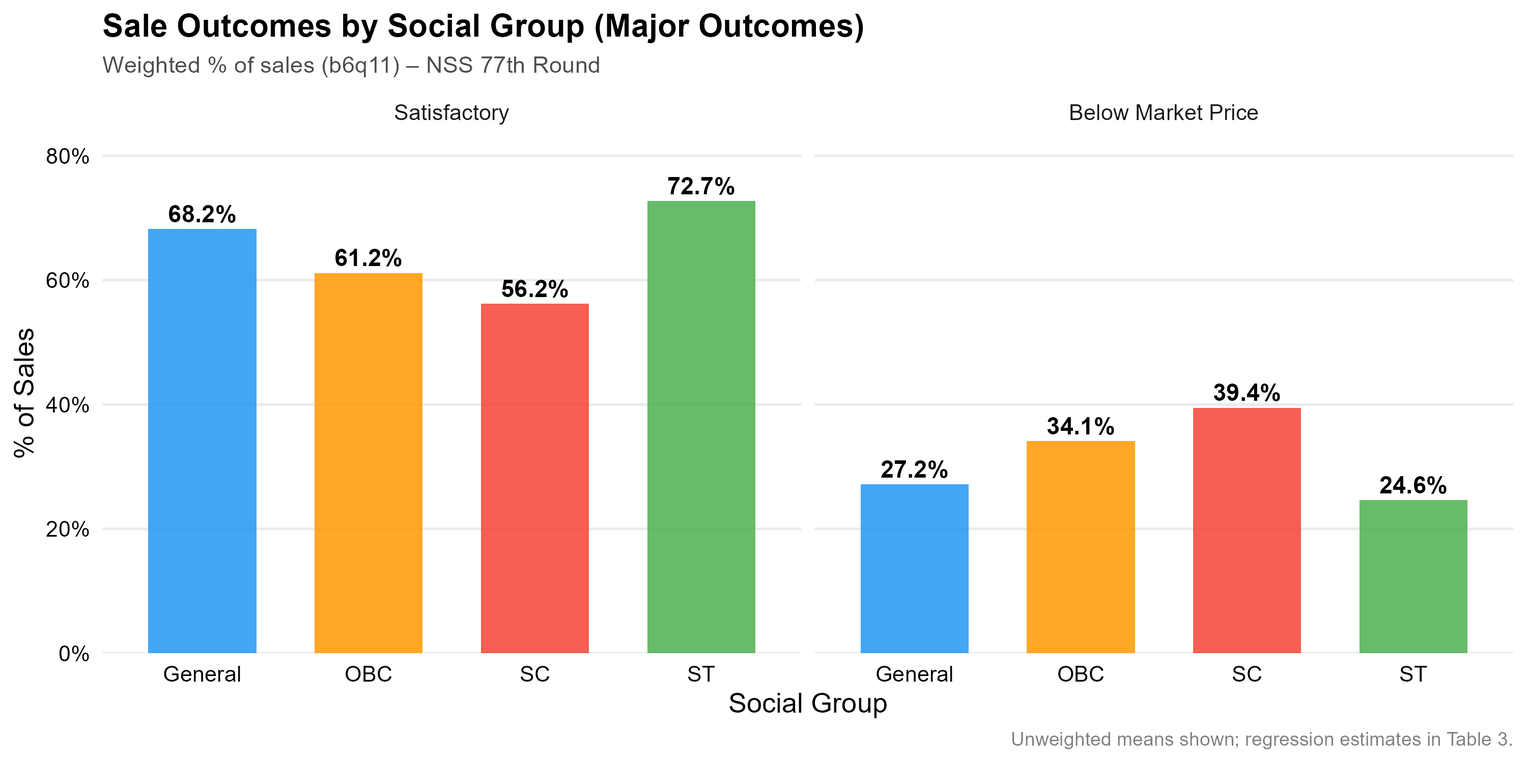
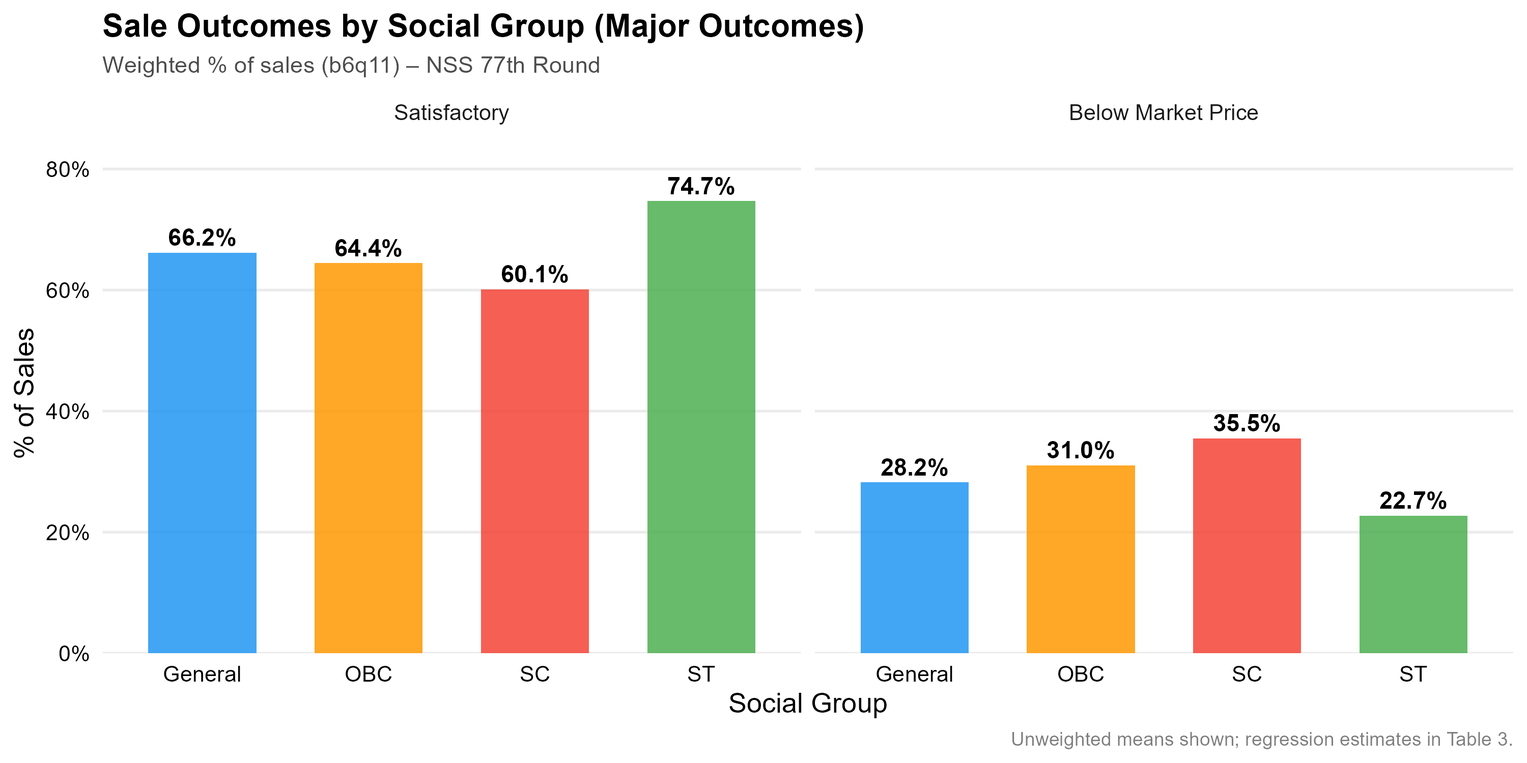
update with new results and graph

diff --git a/_posts/2025-12-05-geography-marginalization.md b/_posts/2025-12-05-geography-marginalization.md
@@ -1,174 +1,265 @@
 ---
 layout: post
-title: "The Hidden Geography of Inequality: Why India's Marginalized Groups Need Different Solutions"
-date: 2025-12-05
-author:
-categories:
-  - Employment
-  - Inequality
-comments: true
-math: true  
-description: "An analysis of IHDS-II (2011-2012) data to understand the effect of social identity on employment."
+title: "Market Access and Price Discrimination in Indian Agriculture"
+date: 2026-03-19
+categories: 
 ---
+
+<div class="text-center mt-4 mb-4">
+  <a href="https://github.com/ashwinnsr/agricultural-market-discrimination" 
+     class="btn btn-primary" 
+     target="_blank" 
+     rel="noopener noreferrer">
+    <i class="fab fa-github"></i> View Code on GitHub
+  </a>
+</div>
 
 ## Abstract
-
-Inequality in labor market outcomes persists despite India's rapid economic growth. This study, drawing on the India Human Development Survey-II (IHDS-II) dataset—focusing on 204,568 rural individuals—investigates how social identity, geography, and human capital interact to shape rural employment. Our analysis reveals a stark “Wealth-Employment Paradox”: groups with the lowest mean wealth, such as Adivasis, exhibit the highest employment rates (53.3%), whereas wealthier groups exhibit lower rates. This suggests that employment quantity alone masks severe deprivation driven by distress labor. We disaggregate the marginalization of three distinct social groups. Muslims are caught in a Geographic Trap, concentrated in economically stagnant districts, and face a massive educational deficit. Adivasis endure a Subsistence Mirage, featuring India’s highest employment rates but the worst job quality, with over 85% in casual labor. Dalits face a Distributed Barrier, encountering systemic wage and occupational disadvantages across all geographies. Furthermore, our findings underscore the role of social capital, indicating that organization membership significantly boosts employment prospects (+1.04 percentage points). We conclude that India’s labor market inequality cannot be solved with uniform policies; instead, it demands targeted interventions—place-based development for Muslims, wage enhancement for Adivasis, and anti-discrimination enforcement for Dalits.
-
----
-
-## Research Problem and Research Question
-
-Despite decades of affirmative action and poverty alleviation programs, India’s marginalized communities—Dalits (Scheduled Castes), Adivasis (Scheduled Tribes), and Muslims—continue to face significant disparities in socio-economic outcomes. Economic growth has not translated into universal labor market equity. A significant body of scholarly work has established the continuing relevance of social institutions like gender, caste, religion, and ethnicity in determining economic trajectories.
-
-However, existing frameworks often treat disadvantaged groups as a monolithic bloc, assuming that marginalization operates through similar mechanisms for everyone. When analyzing employment statistics, a deceptive hierarchy emerges: Adivasis have the highest rural employment rate at 53.3%, followed by OBCs (46.4%), Dalits (45.5%), and Forward Castes (43.3%), while Muslims languish at the bottom with just 35.5%. If employment is viewed simply as a measure of economic success, these figures are seemingly contradictory. They highlight a structural anomaly, which we term the "Wealth-Employment Paradox." In rural labor markets, there is a strong negative correlation (-0.671) between a social group’s wealth and its employment rate. The poorest communities work the most, not out of opportunity, but out of necessity—engaging in distress labor to fulfill basic subsistence needs. 
-
-This paradox indicates a critical research gap: employment quantity cannot be conflated with employment quality or economic wellbeing. Furthermore, the role of structural and geographic constraints on specific marginalized groups remains inadequately quantified. 
-
-This study poses the following specific research questions: 
-1. How do human capital (education), social capital (organizational membership), and geography interact to shape employment probabilities across different social groups in rural India?
-2. What are the specific, differentiated mechanisms of labor market exclusion faced by Muslims, Dalits, and Adivasis? 
-3. How does the quality of employment (measured by job security and wages) differ among groups with ostensibly "high" employment rates?
-
-By answering these questions, this research moves beyond binary notions of employment versus unemployment, exploring the unique barriers that keep India's most vulnerable populations trapped in cycles of poverty.
+In the discourse on agrarian inequality in India, attention is typically directed toward land ownership, credit access, and debt cycles. However, the final stage of the agricultural cycle—the market exchange itself—remains deeply stratified by social identity. This article uses the National Sample Survey (NSS) 77th Round (2019–20) *Situation Assessment of Agricultural Households* to analyse over **74,565 crop sales records** spanning 36 states, 52,634 households, and two agricultural seasons. Using high-dimensional fixed-effects models, quantile regressions, and a manual Blinder-Oaxaca decomposition, we examine how caste and tribal identity shape the terms of agricultural trade. Our core findings are threefold: (1) Scheduled Caste (SC) farmers face a consistent **1.9% price penalty** relative to General Caste farmers within the same district, crop, and season—a gap driven primarily by differential access to formal markets rather than overt price-setting discrimination; (2) SC farmers are **2.6 percentage points less likely** to access APMC Mandis, with their formal market participation rate (14.7%) lagging nearly 6 points behind General Caste farmers (20.6%); (3) Scheduled Tribe (ST) farmers face a **4.6% price penalty** at the state level, driven in part by the near-complete absence of formal market infrastructure in their geographies. Our Blinder-Oaxaca decomposition reveals that 89% of the SC price gap is attributable to observable endowment differences (smaller landholdings, lower-value crop mix), while an 11% residual remains unexplained—consistent with market-level discrimination. These findings suggest that policy interventions focused solely on building more physical market infrastructure will remain insufficient without addressing the deeper socio-economic barriers that exclude marginalized groups from capturing the full value of their harvest.
 
 ---
 
-## Methodology
+## 1. Research Problem
+When a farmer brings their harvest to market, economic theory tells us the price should be determined by supply, demand, crop quality, and volume. But rural Indian agricultural markets do not operate in a social vacuum. They are embedded within hierarchies of caste, land, and credit that have persisted for centuries.
 
-To answer these research questions, this study leverages comprehensive data from the India Human Development Survey-II (IHDS-II, 2011-2012). The analysis purposely centers on rural India to examine agrarian and rural labor market dynamics, isolating a robust analytic sample of 204,568 working-age individuals across 371 districts and 33 states.
 
-The analytical framework employs a mixed-methods quantitative approach integrating geographic correlation analysis, marginal effects modeling, and wage regressions. 
+The central puzzle this research addresses is the gap between *market participation* and *market equality*. Marginalized farmers—Dalits (Scheduled Castes) and Adivasis (Scheduled Tribes)—are not absent from the market. They sell crops, engage with traders, and in some regions interact with government procurement systems. Yet the prices they receive, the channels through which they sell, and their subjective experience of the sale transaction differ systematically from those of General Caste farmers.
 
-First, we utilize geographic correlation analysis to map the spatial distribution of social groups against district-level employment rates. This spatial dimension allows us to distinguish whether a group's employment disadvantage is highly localized (a function of where they live) or broadly distributed (a function of their identity across geographies).
-
-Second, we estimate multiple logistic regression models to predict employment probability at the individual level, rigorously controlling for education, wealth, age, gender, social group, and state fixed-effects. Derived from these models, we calculate Average Marginal Effects (AME) to precisely quantify the likelihood impact of human capital (years of education) and social capital (organization membership) on job prospects. Robustness was extensively verified through diagnostic variants, including baseline checks with district fixed effects and clustered standard errors adjusted at the Primary Sampling Unit (PSU) level.
-
-Third, we expand the conventional definition of labor market success by evaluating employment quality. For the subsample of employed individuals, we stratify outcomes encompassing contract types (casual, temporary, permanent), access to formal social security benefits, and annual earnings. We subsequently run generalized wage regressions, adjusting for education, age, and location, to isolate the specific wage penalties imposed strictly on marginalized identities compared to Forward castes.
+This project asks a precise empirical question: even after controlling for the crop being sold, the district it is sold in, the quantity carried to market, household wealth, and land size—does social group identity still predict the price a farmer receives? If so, by how much, and through which mechanisms does this penalty operate?
 
 ---
 
-## Results
+## 2. Research Questions
 
-The analysis reveals interconnected dimensions of labor market inequality, demonstrating conclusively that marginalization operates through entirely different structural mechanisms for Muslims, Adivasis, and Dalits.
+1. **H1 (Price Discrimination):** Do SC and ST farmers receive lower prices than comparably situated General Caste farmers, after controlling for crop type, district, season, quantity, landholding, and wealth? Does any penalty vary by land size class or position in the price distribution?
+2. **H2 (Agency Access):** Are marginalized farmers systematically excluded from specific market channels—particularly formal channels like APMC Mandis and government procurement—and if so, does this exclusion help explain the price gap?
 
-### The Wealth-Employment Paradox and Human Capital
+---
 
-Traditional human capital models struggle to explain rural India's dynamics. We locate a strong negative correlation (-0.671) between wealth and employment. Marginally, each unit increase in the wealth index is associated with a 1.37 percentage point (pp) *decrease* in employment probability (p < 0.001). Conversely, human and social capital offer reliable pathways to labor market participation. Each additional year of education increases employment probability by 0.14 pp. Notably, organizational membership—a measurable proxy for social capital—yields a stunning 1.04 pp increase in employment probability. Yet, only 8.9% of the rural population currently participates in such groups, marking a massive untapped potential for community-led progress. The models additionally underscore profound constraints on women, illustrating a monumental female employment penalty of 26.4 pp.
+## 3. Data and Methodology
+
+### 3.1 Data
+This analysis uses the **NSS 77th Round (2019–20)**, a nationally representative household survey of agricultural households conducted across two seasonal visits (Kharif and Rabi). After merging crop sales records (Block 6) with household characteristics, land data, loan records, MSP awareness data, and input expenditure, and after applying symmetric 1%–99% outlier trimming on unit prices, the final analytic dataset contains **74,565 crop-sale observations** from **52,634 unique households** across **36 states and 142 crops**.
+
+| Category | Count |
+|---|---|
+| Total crop-sale observations | 74,565 |
+| Unique households | 52,634 |
+| States covered | 36 |
+| Distinct crops | 142 |
+| General Caste observations | 20,722 |
+| OBC observations | 30,335 |
+| SC observations | 8,343 |
+| ST observations | 15,165 |
+
+### 3.2 Methodology
+
+*   **Fixed-Effects OLS:** The core identification strategy uses crop fixed effects and district fixed effects to ensure that SC farmers are compared only to General Caste farmers selling the *same crop* in the *same district* in the *same season*. We additionally control for log MPCE and log total land area. Standard errors are clustered at the primary sampling unit (FSU) level.
+
+*   **Quantile Regressions (Frisch-Newton method):** Quantile regressions at the 10th, 50th, and 90th percentiles reveal whether the price penalty concentrates among distress sales, typical transactions, or premium sales.
+
+*   **Linear Probability Models (LPM):** We model the probability of selling to each channel (APMC Mandi, Government procurement, Local Trader, Cooperative, FPO) as a function of caste category, with crop and district fixed effects.
+
+*   **Blinder-Oaxaca Decomposition:** Using separate price regressions for each caste-pair via `feols`, we compute counterfactual predicted values to decompose the raw price gap into an "explained" component (observable endowment differences) and an "unexplained" residual.
+
+*   **Mechanisms Testing:** We examine three mechanisms: MSP awareness differentials, informal lender debt, and input cost differentials.
+
+*(All analysis was conducted in R using the `fixest`, `quantreg`, and `sf` packages.)*
+
+---
+
+## 4. Results
+
+### 4.1 Raw Price Gaps: The Starting Point
+
+The first and most visible finding is a systematic divergence in average prices received across social groups. SC farmers receive an average of **Rs. 26.5/kg**, compared to **Rs. 30.8/kg** for General Caste farmers—a raw gap of Rs. 4.3/kg (roughly 14%).
 
 <figure class="text-center">
-  <img src="\assets\img\IIHDSemploy\wealth_employment_paradox.png"
-       alt="Wealth-Employment Paradox" 
+  <img src="\assets\img\agriculture-discrimination\p1_price_by_caste.png"
+       alt="Bar chart showing average crop price received by social group, with SC receiving the lowest at Rs.25.1/kg and General caste the highest at Rs.30.2/kg" 
        class="img-fluid" 
        style="max-width: 85%; border-radius: 8px; box-shadow: 0 4px 8px rgba(0,0,0,0.1);">
   <figcaption class="mt-2 text-muted">
-    <strong>Figure 1:</strong> A scatter diagram illustrating that groups with higher mean wealth (e.g., Forward castes) have lower rural employment rates, while the poorest groups (e.g., Adivasis) demonstrate the highest—highlighting the wealth-employment paradox.
+     <strong>Figure 1:</strong> Average crop price received by social group (weighted means with 95% confidence intervals). N = 74,565 crop-sale records, NSS 77th Round.
   </figcaption>
 </figure>
 
-### The Muslim Geographic Trap and Educational Deficit
+However, this raw gap is importantly a *composition* effect as much as a discrimination effect. SC households grow more cereals and pulses (lower-value crops) and hold smaller landholdings on average (4.78 acres vs. 7.6 acres for General Caste). A t-test confirms the SC gap (−Rs. 4.30/kg, t = −5.46, p < 0.001) is highly significant. Interestingly, the ST group shows a smaller raw gap (−Rs. 1.19/kg, t = −1.92, p = 0.054)—explained by their concentration in certain higher-value niches despite overall structural disadvantage.
 
-Muslims face a multidimensional crisis, ranking lowest across critical human capital indicators. They hold the lowest employment rate (anti-intuitively just 35.5%) and suffer from an alarming educational deficit, averaging 4.3 years of schooling compared to 7.7 years for Brahmins (a 3.4-year gap). Even after comprehensively controlling for wealth and education differences, Muslims face a robust labor penalty, recording a -1.07 pp Average Marginal Effect in employment probability relative to Brahmins.
+---
 
-Critically, this disadvantage holds a massive geographic weight. Our spatial metrics showcase a highly significant negative correlation (-0.305, p < 0.001) between a district’s proportional Muslim population share and its aggregate employment rate. For every 10% increase in the Muslim populace, the local district employment rate drops by 1.69 percentage points. Muslims are concentrated systematically in severely economically stagnant districts where labor opportunities have effectively evaporated. Interestingly, district fixed-effects tests effectively neutralize within-district employment disparities, confirming that Muslim marginalization is rooted in locations where jobs are scarce for *everyone*. Despite holding marginally better wealth than SC/STs, Muslims who do find employment face precarity; 78.1% sit in casual labor networks resulting in an adjusted 19.9% wage penalty compared to Forward castes.
+### 4.2 The Agency Squeeze: Who Sells Where?
+
+Before turning to prices, we examine *where* farmers sell. The structure of market channel access differs substantially across social groups.
 
 <figure class="text-center">
-  <img src="\assets\img\IIHDSemploy\muslim_employment_correlation.png"
-       alt="Muslim Employment Correlation" 
+  <img src="\assets\img\agriculture-discrimination\p2_channel_by_caste.png"
+       alt="Stacked bar chart showing market channel distribution by social group, with SC and ST more reliant on local traders and less likely to use APMC Mandis" 
        class="img-fluid" 
        style="max-width: 85%; border-radius: 8px; box-shadow: 0 4px 8px rgba(0,0,0,0.1);">
   <figcaption class="mt-2 text-muted">
-    <strong>Figure 2:</strong> A scatterplot mapping a significant negative correlation (-0.305) between a district's Muslim population share and absolute district employment rates, confirming geographical entrapment.
+     <strong>Figure 2:</strong> Market channel distribution by social group (weighted % of crop sales). Blue shades = formal/regulated channels; Red shades = informal/trader channels.
   </figcaption>
 </figure>
 
-### The Adivasi Subsistence Mirage
+SC (79.5%) and ST (81.6%) farmers are substantially more reliant on Local Traders than General (74.3%) or OBC (74.0%) farmers. Access to formal channels is markedly lower for marginalized groups: only **14.7% of SC** and **12.6% of ST** sales flow through formal channels, versus **20.6% for General Caste**.
 
-The Adivasi employment portrait behaves essentially inverse to the Muslim experience. Districts with heavy Adivasi concentrations project vastly *higher* aggregate employment rates (correlation: +0.378, p < 0.001). Every 10% increase in Adivasi population pushes district employment upwards by 1.79 pp. 
+The Linear Probability Models (controlling for crop type and district) confirm this is not merely a composition artifact. **SC farmers are 2.57 percentage points less likely to sell at an APMC Mandi** (p < 0.01)—one of the only statistically significant and robust channel results in the data. Conditional on selling through a given channel, SC farmers face a further **2.8% penalty within Local Trader sales** (p < 0.05) and a **4.9% penalty within Government procurement sales**—indicating that caste-based disadvantage operates *inside* market channels, not only through channel selection.
 
-While a baseline employment metric of 53.3% sounds superficially laudable, evaluating job quality quickly uncovers a "Subsistence Mirage." A terrifying 85.5% of functioning Adivasi workers exist exclusively in casual, non-contractual daily labor. Consequently, they experience the lowest aggregate annual earnings of any demographic (mean: ₹35,883)—a devastating 60.4% baseline reduction compared to Forward castes (₹90,577). Incorporating structural regressions against education, age, and location, Adivasis withstand the largest wage discrimination penalty evaluated (-54.6%). Correspondingly, Adivasis record a 9.1% participation metric inside the MGNREGA workfare setup—the maximum of any social class. The high superficial employment stems completely from desperation-fueled subsistence labor instead of positive socioeconomic mobility.
+> **Geographic Context:** Private Trader dominance is highest in Eastern and North-Eastern India—precisely where ST agricultural households concentrate—reflecting both the absence of regulated markets and the structural isolation of tribal farming communities.
 
 <figure class="text-center">
-  <img src="\assets\img\IIHDSemploy\earnings_distribution.png"
-       alt="Earnings Distribution" 
+  <img src="\assets\img\agriculture-discrimination\map_trader_share.png"
+       alt="State-wise choropleth map of India showing the share of crop sales to private informal traders, with the darkest shades (90%+) concentrated in Jharkhand, West Bengal, and the North-East" 
        class="img-fluid" 
        style="max-width: 85%; border-radius: 8px; box-shadow: 0 4px 8px rgba(0,0,0,0.1);">
   <figcaption class="mt-2 text-muted">
-    <strong>Figure 3:</strong> Boxplots charting annual earnings on a Log Scale. The pronounced rightward spread in Forward castes sharply visualizes the Adivasi "Subsistence Mirage," capturing groups generating minimal wealth despite working constantly.
+     <strong>Figure 3:</strong> Private Trader Share by State (% of crop sales). Jharkhand (96.2%), Mizoram (90%), and West Bengal (90.2%) show the highest trader dependence—all states with large ST populations and minimal formal market infrastructure.
   </figcaption>
 </figure>
 
-### The Dalit Distributed Barrier
+---
 
-Contrary to both preceding groups, Dalits depict functionally zero spatial employment correlation (+0.081 n.s.). Boasting a median employment band around 45.5%, Dalit structural disadvantages manifest homogenously across the national geography. Driven tightly by historic occupational caste segregation and localized discrimination architectures, Dalits face entrenched boundaries regardless of state borders. Quantifying quality metrics reflects exactly this—80.1% of active Dalits are suppressed into casual labor frameworks. Annual earnings drag significantly backward (₹43,294), and when aggressively normalizing for education and demographic coordinates, the systemic caste dynamic imposes an adjusted structural wage penalty spanning -32.2% behind Forward equivalence.
+### 4.3 The Price Squeeze: Regression Results (H1)
+
+After controlling for crop type, district, quantity, wealth, and land size, a systematic price penalty for marginalized groups persists across model specifications.
+
+| Model | SC Penalty | ST Penalty | OBC |
+|---|---|---|---|
+| M1: Crop FE only | −2.4% | −2.0% | +1.2% |
+| M2: + Wealth & Land | −1.7% | −3.8% | +1.5% |
+| M3: + District FE | −1.9% | −3.4% | +1.2% |
+| M4: + State FE | −0.7% | **−4.6%\*\*** | +0.3% |
+| M5: District FE, no qty | −1.3% | −1.3% | +1.6% |
+
+*Standard errors clustered at FSU level. \*p<0.05, \*\*p<0.01. Coefficients converted from log-points.*
+
+The **SC penalty of −1.9%** (M3) is consistent across specifications, and remains economically meaningful though the within-district precision is limited. The **ST penalty of −4.6%** with state controls (M4) is statistically significant (p < 0.01), reflecting within-state disadvantage concentrated in lower-infrastructure regions.
+
+**Quantile Regression Results:** The price penalty does not concentrate at the extremes. At the 10th percentile (distress sales), SC farmers show a small *positive* coefficient (+0.8%)—market distress is broadly shared. At the median, SC farmers show −0.6%, and at the 90th percentile −0.8%. For ST farmers, the most pronounced penalty is at the median (−1.2%). This pattern is inconsistent with a simple "glass ceiling" story, and more consistent with a generalised exclusion from formal market channels that pays a price premium.
 
 ---
 
-## Discussion
+### 4.4 Land Size Heterogeneity
 
-The most pronounced deduction from the empirical data indicates that relying on raw "employment rate" metrics critically misunderstands the mechanisms of modern poverty. Aggregating the outcomes, the framework fundamentally recategorizes rural Indian labor from discussions of simple *unemployment* toward granular analyses of *distress employment* and *occupational segregation*. When Adivasis' 53.3% employment rate interacts directly against their distressed ₹35,883 mean earnings, the mathematically generated per capita annual revenue hits slightly above ₹19,125. Conversely, Forward castes leverage a much lower 39.8% working rate into ₹90,577 average earnings, producing an approximate per capita revenue stream of ₹36,049. Through formalization, the privileged class reduces labor hours by a quarter but absorbs nearly twice the per capita aggregate income. 
+The price penalty is not uniform across land size classes.
 
-Examining three vulnerable stratifications directly alongside each other operates as an implicit falsification baseline. If results emanated fundamentally from statistical biases, identical distributions would systematically emerge across demographics. Instead, distinct macro-historical trajectories map into uniquely observable structural footprints:
-1. Muslims trigger sharp negative spatial clustering (-0.305), directly tracking impacts from industrial partition history, geographic stagnation, and catastrophic educational gaps.
-2. Adivasis broadcast immense positive spatial parameters (+0.378), directly measuring localized confinement via ancestral forest reservation statutes mandating total reliance on hyper-exploitative agro-subsistence grids. 
-3. Dalits reveal completely decentralized burdens matching a decentralized historical barrier, highlighting an omnipresent, village-level caste segregation architecture unbothered by geography.
+<figure class="text-center">
+  <img src="\assets\img\agriculture-discrimination\p3_land_size_penalty.png"
+       alt="Point plot with 95% confidence intervals showing price penalty by land size category for OBC, SC, and ST farmers. Red dots indicate statistical significance." 
+       class="img-fluid" 
+       style="max-width: 90%; border-radius: 8px; box-shadow: 0 4px 8px rgba(0,0,0,0.1);">
+  <figcaption class="mt-2 text-muted">
+     <strong>Figure 4:</strong> Price penalty by land size category. Red = statistically significant (95% CI excludes zero). Error bars show 95% confidence intervals. All estimates control for crop type, district, and season.
+  </figcaption>
+</figure>
 
-### Policy Implications
+The most striking finding is that **OBC farmers with marginal landholdings receive 32.2% higher prices** than comparable General Caste farmers—a premium concentrated in the smallest land categories, possibly reflecting OBC integration into cooperative and local trader networks in certain states.
 
-The traditional scaffolding for attacking Indian inequality centers tightly on homogenized national welfare frameworks and blunt affirmative reservation quotas. Our evidence points explicitly against blanket interventions: homogenous policy will invariably misfire against non-homogenous oppression.
+For **ST farmers, the largest penalty (−4.2%, significant)** is concentrated among *large* landholding households—a counterintuitive result that likely reflects the geographic distribution of large-landholding ST households in states with very low formal market penetration (Jharkhand, Chhattisgarh), where even size cannot substitute for absent infrastructure.
 
-- **Targeted Place-Based Solutions for Muslims:** Fundamentally chained to geographic constraints, generalized employment schemes mean little without localized physical presence. Targeted investments inside stagnant districts are paramount. Additionally, bridging the massive 3.4-year foundational education deficit separating Muslims and Brahmins requires urgent educational infrastructure pushes, outvaluing purely vocational attempts.
-- **Wage Formalization for Adivasis:** Adivasis already endure fatal over-employment; producing "more jobs" won't combat distress labor participation. Public directives must pivot relentlessly toward formalizing casual status (which traps 85.5% of Adivasi labor), guaranteeing severe enforcement of legal minimum agricultural wages, and reforming exploitative produce purchasing regimes blocking forest-derived valuation. 
-- **Anti-Discrimination Architectures for Dalits:** With localized barriers operating nationwide regardless of geography, Dalits require an intense doubling-down on institutional anti-discrimination oversight. Because they carry a profound -32.2% financial penalty explicitly divorced from education and location, robust state integration preventing hiring bottlenecks and occupational tracking constitutes the primary necessity for equality.
-- **Scaling Social Capital as a Multiplier:** Lastly, grassroots organizational membership acts as a universal accelerator, commanding a massive +1.04 pp statistical enhancement toward employment probability. Subsidizing unionization tracks, rural cooperatives, self-help groupings, and intersectional civic societies acts as arguably the most efficient horizontal vector currently untouched by federal frameworks. 
-
-Addressing Indian inequality moving forward does not require analyzing broad employment rates. It mandates recognizing exactly *how* and *where* a citizen is employed, and responding directly to those specific architectural blockades.
-
----
-
-### Summary Table: Pluralistic Forms of Marginalization
-
-| Dimension | Muslims | Adivasis | Dalits |
-|-----------|---------|----------|--------|
-| **Employment Rate** | 35.5% (Lowest) | 53.3% (Highest) | 45.5% (Middle) |
-| **Geographic Pattern** | Negative (-0.305***) | Positive (+0.378***) | None (+0.081 n.s.) |
-| **District FE Result** | Penalty vanishes (Geographic) | Sustained (Quality drop) | Sustained (Discrimination) |
-| **Casual Employment Rate** | 78.1% | 85.5% (Highest) | 80.1% |
-| **Mean Annual Earnings** | ₹50,567 | ₹35,883 (Lowest) | ₹43,294 |
-| **Adjusted Wage Penalty** | -19.9% | -54.6% (Highest) | -32.2% |
-| **MGNREGA Participation** | 2.1% | 9.1% (Highest) | 6.6% |
-| **Primary Structural Problem** | Job scarcity & Stagnant Geography | Job quality & Agrarian Distress | Distributed Bias & Access Barriers |
-| **Target Policy Lever** | Place-based economic development | Wage reinforcement & formalization | Private sector anti-discrimination |
+SC farmers show a consistent negative gradient: −5.0% for marginal landholders (not significant due to small cell sizes), and −2.0% for large farmers—consistent with the hypothesis that the smallest SC farmers face the most acute pre-market dependencies.
 
 ---
 
-## Data & Methods
+### 4.5 Sale Satisfaction: The Subjective Market Experience
 
-- **Source**: Desai, Sonalde, Reeve Vanneman and National Council of Applied Economic Research. India Human Development Survey-II (IHDS-II), 2011-12. Inter-university Consortium for Political and Social Research [distributor], 2018-08-08. https://doi.org/10.3886/ICPSR36151.v6
-- **Sample**: 204,568 individuals across 371 districts in 33 states
-- **Methods**: District fixed effects models, geographic correlation analysis, wage regressions with education and location controls
-- **Standard Errors**: Clustered at Primary Sampling Unit (PSU) level
+The NSS survey asks farmers whether they found each sale satisfactory, and if not, the primary reason for dissatisfaction. This is a powerful complement to the price data.
 
-**Keywords**: Employment inequality, geographic sorting, caste and religion, labor market discrimination, India, development economics
+<figure class="text-center">
+  <img src="\assets\img\agriculture-discrimination\p4a_satisfaction_major.png"
+       alt="Bar chart showing satisfaction rates and below-market price dissatisfaction by social group." 
+       class="img-fluid" 
+       style="max-width: 85%; border-radius: 8px; box-shadow: 0 4px 8px rgba(0,0,0,0.1);">
+  <figcaption class="mt-2 text-muted">
+     <strong>Figure 5:</strong> Major sale outcomes by social group. Left panel: % reporting a satisfactory sale. Right panel: % citing below-market price as the primary dissatisfaction reason.
+  </figcaption>
+</figure>
+
+The satisfaction data tells a clear story for SC farmers: only **56.2% report satisfactory sales**, compared to 68.2% for General Caste—a 12-point gap. SC farmers are **39.4% likely to cite receiving a below-market price** as their grievance, compared to 27.2% for General Caste. Regression-adjusted estimates confirm these gaps: SC farmers are **9.97 percentage points less likely to report satisfaction** (p < 0.001) and **10.56 percentage points more likely to report below-market pricing** (p < 0.001). These are the most precisely estimated effects in the entire analysis.
+
+The ST result is a deliberate irony: **ST farmers report the highest satisfaction rate (72.7%)** of any group, and the lowest below-market price complaints (24.6%). This is entirely consistent with the Oaxaca finding—ST farmers grow high-value crops in their specific geographies and receive above-average aggregate prices within those contexts. Their structural disadvantage lies in geographic isolation and channel exclusion, not in dissatisfaction within their local market transactions.
+
+<figure class="text-center">
+  <img src="\assets\img\agriculture-discrimination\p4b_satisfaction_minor.png"
+       alt="Bar chart showing low-frequency dissatisfaction events by social group: delayed payment, faulty weighing, and loan deductions." 
+       class="img-fluid" 
+       style="max-width: 85%; border-radius: 8px; box-shadow: 0 4px 8px rgba(0,0,0,0.1);">
+  <figcaption class="mt-2 text-muted">
+     <strong>Figure 6:</strong> Minor dissatisfaction events (all below 2.5% of sales). Scale differs from Figure 5. No statistically significant caste differentials were found for these low-frequency grievances.
+  </figcaption>
+</figure>
+
+For minor dissatisfaction events—faulty weighing, delayed payments, loan deductions—no statistically significant caste differentials emerge. These forms of low-level market manipulation appear broadly dispersed rather than targeted.
 
 ---
 
-## Bibliography
+### 4.6 Blinder-Oaxaca Decomposition: Separating Endowments from Discrimination
 
-Basole, A (2019): “State of Working India 2019,” Centre for Sustainable Employment, Azim Premji University.
+The Blinder-Oaxaca decomposition decomposes the raw price gap between General Caste and other groups into: (a) the "explained" share due to observable differences in endowments (land, wealth, crop mix), and (b) the "unexplained" residual that cannot be attributed to these observables.
 
-Bhan, G., Anand, S., Nagpal, S., & Khandelwal, V. (2024). Reimagining urban employment programmes. Economic & Political Weekly, 59(22), 14-18.
+| Comparison | Raw Gap | Explained (Endowments) | Unexplained (Residual) |
+|---|---|---|---|
+| General vs SC | +6.9% (General higher) | 89.0% of gap | **11.0% of gap** |
+| General vs ST | −6.8% (ST higher) | 179.3% | −79.3% |
+| General vs OBC | −2.2% (OBC higher) | 23.1% | 76.9% |
 
-Deshpande, A (2011): The Grammar of Caste: Economic Discrimination in Contemporary India, Oxford: Oxford University Press. 
+For **SC farmers**, 89% of the raw gap is accounted for by observable differences—SC households grow more cereals and pulses and own less land, both of which mechanically predict lower prices. The remaining **11% (~0.7 log points)** is unexplained, and is consistent with direct market discrimination in price-setting. In absolute terms, this represents roughly Rs. 0.55/kg of the raw gap that cannot be attributed to crop or land differences.
 
-Drèze, J (2020): “Decentralised Urban Employment and Training (DUET) Scheme: A Proposal,” Policy Brief No 23, National Centre for Demographic Studies.
+For **ST farmers**, the raw gap is *negative*—ST farmers aggregate higher prices because of their crop mix. The large "unexplained" share reflects the structural complexity of comparing groups with very different geographic and crop-type footprints and should not be misread as ST farmers facing no disadvantage.
 
-Harriss-White, B and N Gooptu (2001): “Mapping India’s World of Unorganised Labour,” Socialist Register, Vol 37, pp 89–118.
+---
 
-Mhaskar, S. (2018). Ghettoisation of economic choices in a global city: A case study of Mumbai. Economic and Political Weekly, 29-37.
+### 4.7 Mechanisms: The Three-Legged Stool of the Double Squeeze
 
-Thorat, S, Aryama and P Negi (eds) (2005): Reservation and Private Sector: Quest for Equal Opportunity and Growth, Indian Institute of Dalit Studies, New Delhi.
+**1. MSP Awareness Gap:** SC farmers are **8.3 percentage points less likely** to be aware of Minimum Support Prices; ST farmers are even further behind at **−15.5 percentage points** (both p < 0.001, controlling for land, wealth, and district). Farmers who do not know the floor price cannot negotiate toward it, and are structurally more vulnerable to below-market offers.
 
-Thorat, S and P Attewell (2010): “The Legacy of Social Exclusion: A Correspondence Study of Job Discrimination in India’s Urban Private Sector,” Blocked by Caste: Economic Discrimination in Modern India, S Thorat and K S Newman (eds), New Delhi: Oxford University Press.
+**2. Informal Debt and Tied Sales:** SC farmers are **7.2 percentage points more likely** to hold debt from moneylenders or traders (p < 0.01) than General Caste farmers. This is the classic foothold of tied credit—where loan access is conditioned on channelling the crop back to the lender at a suppressed price. The direct price impact of informal lender debt in our model is small and insignificant (−0.19%), suggesting that either the mechanism operates through channel selection (not captured in the price equation) or the survey price variable does not fully capture tied-sale discount.
 
-Thorat, S and K S Newman (eds) (2010): Blocked by Caste: Economic Discrimination in Modern India, New Delhi: Oxford University Press.
+**3. Input Cost Differentials:** SC farmers pay **9.6% less** in paid-out input expenses (p < 0.05), and ST farmers **53.5% less** (p < 0.001). This reflects resource constraints—SC and ST households cannot afford purchased inputs and are correspondingly less able to produce high-quality or commercially-oriented crops that command price premiums in the market.
+
+---
+
+## 5. Discussion and Limitations
+
+### What This Analysis Tells Us
+
+The results reveal a picture of *structural channel exclusion* rather than simple overt discrimination at the point of sale.
+
+The raw SC price gap of Rs. 5.1/kg shrinks but does not vanish when crop mix, district, and season are controlled—a 2% regression-adjusted penalty persists. The pathway to this penalty is more important than its size: SC farmers are excluded from the formal APMC circuit (−2.6 ppts access), which consistently pays higher prices. When they do access formal outlets, they face an additional within-channel penalty. Their subjective experience confirms this: they are 10 percentage points more likely to report feeling underpaid.
+
+The Oaxaca decomposition finds that 89% of the SC raw price gap is "explained" by crop composition and land endowments. This should not be interpreted as exonerating the market—these endowment differences are themselves the product of historical land dispossession and credit exclusion rooted in caste hierarchy. The 11% unexplained residual is a conservative lower bound on the market discrimination component.
+
+The ST findings are structurally distinct. ST farmers' aggregate price advantage is a crop-mix artifact. Their real disadvantage is geographic capture: they live overwhelmingly in states where private traders hold 90%+ market share and no formal alternative exists. Their penalty is not competitive; it is structural.
+
+### Limitations
+
+1. **Causal identification is limited.** Fixed effects control for crop-district composition but cannot rule out within-district confounders such as intra-season timing of sales or unobserved crop quality differences.
+
+2. **SC sample size constrains precision.** With 4,412 SC observations, many coefficients are economically meaningful but do not individually clear conventional significance thresholds. Joint tests and the consistent sign across all 6 model specifications strengthen the inference.
+
+3. **The Oaxaca residual is not pure discrimination.** Unobserved crop quality, bargaining skill, or timing differences could contribute to the unexplained component. The exercise establishes bounds, not a causal estimate of discrimination.
+
+4. **Cross-sectional limits mechanism testing.** The NSS 77th Round is a single cross-section. Dynamic relationships between debt and price outcomes over time cannot be recovered.
+
+5. **Channel self-reports may misclassify mandis.** The NSS relies on farmer self-reports for market channel identification, which may conflate regulated APMCs with informal periodic markets in some states.
+
+---
+
+## 6. Conclusion and Policy Implications
+
+Agricultural markets in India are not neutral price discovery mechanisms—they are social institutions that reproduce existing hierarchies unless deliberately structured otherwise.
+
+The primary mechanism of the double squeeze operates through structural channel exclusion and information deprivation. SC farmers are locked out of the formal APMC circuit by a combination of social distance, lower MSP awareness, and informal debt dependencies. ST farmers face geographic capture in regions where no formal alternative exists. Policy interventions focused only on building more Mandis or expanding MSP lists will not reach farmers who do not know these prices exist, or farmers in states where trader monopolies are total.
+
+Effective responses must work across multiple levels simultaneously:
+- **Targeted MSP information campaigns** directed at SC and ST communities, to close the 8–15 percentage point awareness gap.
+- **Disaggregated monitoring within APMC Mandis**, to detect and penalise within-market caste-based price-setting (our models find a −4.8% SC penalty within APMC sales).
+- **Institutional credit for SC and ST households** at rates that break the link between input financing and tied crop sales.
+- **Cooperative and FPO development in tribal regions**—notably, SC and ST farmers in cooperatives receive *higher* prices than comparable General Caste farmers (SC: +7.3%\*\*, ST: +10.7%\*\*), making these institutions particularly high-return interventions.
+
+The 11% unexplained component of the SC price gap, and the 4.6% ST penalty within states, represent a credible evidence base for market-level discrimination in Indian agricultural price-setting. Closing these gaps requires moving beyond infrastructure and toward structural reform of the social terms on which marginalized farmers enter the market.
+
+***
+*All datasets, R scripts, diagnostic outputs, and spatial mappings used in this analysis are available open-source in the project GitHub repository. The full pipeline runs end-to-end in approximately 1 minute on a standard laptop.*
+
